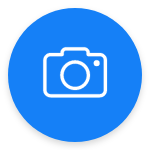
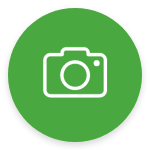
custom finish

diff --git a/views/perfil/Style.js b/views/perfil/Style.js
@@ -130,7 +130,7 @@ const styles = StyleSheet.create({
     alignSelf: 'center',
     width: 150,
     height: 150,
-    top: -45,
+
     elevation: 8,
   },
   botoncamara: {
@@ -141,7 +141,7 @@ const styles = StyleSheet.create({
     marginLeft: 215,
     width: 45,
     height: 45,
-    top: -85,
+    top: -45,
     elevation: 10,
   },
   txtnombreprofile: {
@@ -157,7 +157,6 @@ const styles = StyleSheet.create({
     marginBottom: 40,
   },
   viewprofilepedidos: {
-    top: -70,
     backgroundColor: 'white',
     elevation: 5,
     borderTopLeftRadius: 20,
@@ -219,7 +218,7 @@ const styles = StyleSheet.create({
     fontWeight: '600',
     marginTop: -37,
     marginLeft: 20,
-    color: '#B5BECE',
+    color: '#40A336',
     fontWeight: 'bold',
   },
   textpedidosperfil1: {
@@ -227,7 +226,7 @@ const styles = StyleSheet.create({
     fontWeight: '600',
     marginTop: -37,
     marginLeft: 35,
-    color: '#B5BECE',
+    color: '#40A336',
     fontWeight: 'bold',
   },
   box10: {
@@ -254,13 +253,13 @@ const styles = StyleSheet.create({
     left: 4,
   },
   numeroperfil: {
-    color: '#23B1F1',
+    color: '#40A336',
     fontWeight: 'bold',
     fontSize: 24,
     marginLeft: 57,
   },
   numeroperfil1: {
-    color: '#23B1F1',
+    color: '#40A336',
     fontWeight: 'bold',
     fontSize: 24,
     marginLeft: 62,
@@ -329,7 +328,7 @@ const styles = StyleSheet.create({
   },
   btnSeguir: {
     marginTop: 10,
-    backgroundColor: '#1580F7',
+    backgroundColor: '#40A336',
     height: 45,
     width: 300,
     alignSelf: 'center',
@@ -573,14 +572,13 @@ const styles = StyleSheet.create({
     borderBottomRightRadius: 9,
   },
   txtperfil: {
-    color: '#1DAFF1',
+    color: '#40A336',
     fontWeight: 'bold',
     fontSize: 28,
     left: 30,
-    top: -40,
   },
   logo: {
-    height: 50,
+    height: 70,
     width: 150,
     alignSelf: 'center',
     bottom: 38,
@@ -591,22 +589,20 @@ const styles = StyleSheet.create({
     textAlign: 'center',
     fontWeight: 'bold',
     color: '#66656B',
-    bottom: 80,
   },
   txtdireccion1: {
     fontSize: 12,
     textAlign: 'center',
-    bottom: 80,
+
     color: '#B1B1B1',
     fontWeight: 'bold',
   },
   viewinfousuario: {
     width: 330,
     height: 210,
-
+    marginTop: 20,
     alignSelf: 'center',
     borderRadius: 10,
-    top: -45,
   },
   txtinfousuario: {
     fontSize: 14,

diff --git a/views/perfil/views/editarPerfil/EditarPerfil.js b/views/perfil/views/editarPerfil/EditarPerfil.js
@@ -11,7 +11,7 @@ import telperf from '../../../../resources/imghompro/Register-Icon-Phone.png';
 import passperf from '../../../../resources/imghompro/Register-Icon-Password.png';
 import iconubi from '../../../../resources/imghompro/Register-Icon-Address.png';
 import userperf from '../../../../resources/imghompro/Register-Icon-Name.png';
-import logo from '../../../../resources/logotipo.png';
+import logo from '../../../../resources/Logotype-AppMe-Original-App.png';
 import {ScrollView} from 'react-native-gesture-handler';
 
 const EditarPerfil = (props) => {
@@ -85,7 +85,8 @@ const EditarPerfil = (props) => {
           <TouchableHighlight
             style={styles.btnSeguir}
             underlayColor="#F3F306"
-            onPress={this.singUpUser}>
+            // onPress={this.singUpUser}>
+          >
             <Text style={styles.textbutton}>Guardar</Text>
           </TouchableHighlight>
         </View>

diff --git a/views/perfil/Perfil.js b/views/perfil/Perfil.js
@@ -14,7 +14,7 @@ import telperf from '../../resources/imghompro/Register-Icon-Phone.png';
 import passperf from '../../resources/imghompro/Register-Icon-Password.png';
 import dirperf from '../../resources/imghompro/Register-Icon-Address.png';
 import ajusperf from '../../resources/imghompro/Icon-Config.png';
-import logo from '../../resources/logotipo.png';
+import logo from '../../resources/Logotype-AppMe-Original-App.png';
 
 import {ScrollView} from 'react-native-gesture-handler';
 
